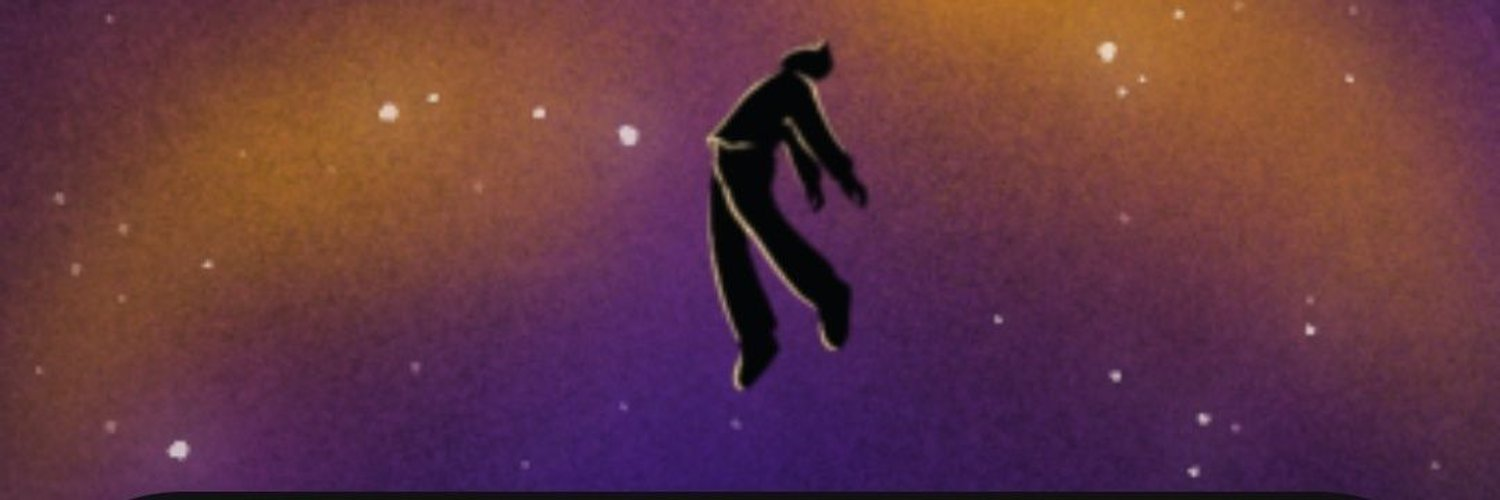
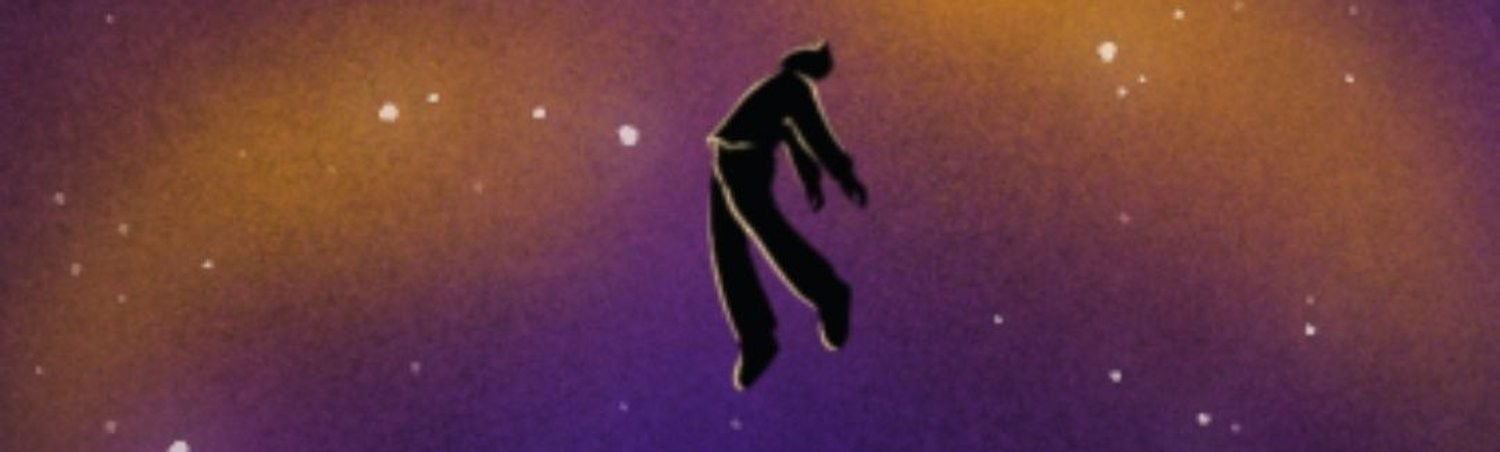
changes

diff --git a/src/App.jsx b/src/App.jsx
@@ -80,12 +80,12 @@ const App = () => {
         </header>
 
         {/* Hero Section */}
-        <section className="py-12 md:py-20 px-4">
+        <section className="relative h-[80vh] md:h-[100vh] overflow-hidden px-4">
           <div className="absolute inset-0 z-0">
             <img
               src={heroImage}
               alt="Hero Background"
-              className="w-full h-full/3 object-cover"
+              className="w-full h-full pt-5 object-cover"
               loading="lazy"
             />
             {/* Perfect Dark Overlay – text always readable */}
@@ -111,11 +111,11 @@ const App = () => {
                   Software Engineer | IIT Ropar
                 </p>
                 <p className="text-gray-600 dark:text-gray-300 text-lg leading-relaxed mb-6 max-w-2xl">
-                  Full-stack developer with experience building scalable
-                  applications. JEE Advanced AIR 9956 | MITACS Research Intern @
-                  Dalhousie University | Former Faculty @ K12 Techno Services.
-                  Passionate about clean code, system design, and solving
-                  real-world problems.
+                  Full-Stack Dev with experience building scalable apps. JEE Adv{" "}
+                  <strong>AIR 9956</strong> | JEE Mains 2020{" "}
+                  <strong>99.63 %tile</strong> | MITACS Research Intern @ Dalhousie
+                  Univ, Canada | Phy, Math Faculty @ K12 Techno Services. Passionate about
+                  clean code, system design & solving real-world problems.
                 </p>
 
                 {/* Social Links */}
@@ -179,7 +179,7 @@ const App = () => {
 
         {/* Timeline Section */}
         <section className="py-20 px-4 bg-white dark:bg-gray-800">
-          <div className="max-w-6xl mx-auto">
+          <div className="max-w-5xl mx-auto">
             <h2 className="text-3xl md:text-4xl font-bold text-gray-900 dark:text-white mb-12 text-center">
               Journey
             </h2>
@@ -238,7 +238,7 @@ const App = () => {
                     <>
                       MITACS Globalink Research Intern at Dalhousie University.
                       Worked with Dr. Nur Zincir-Heywood on network security
-                      analysis. Created some vlogs {" "}
+                      analysis. Created some vlogs{" "}
                       <a
                         href="https://www.youtube.com/watch?v=Q6nHKfpONrI" // ← add your link here
                         target="_blank"
